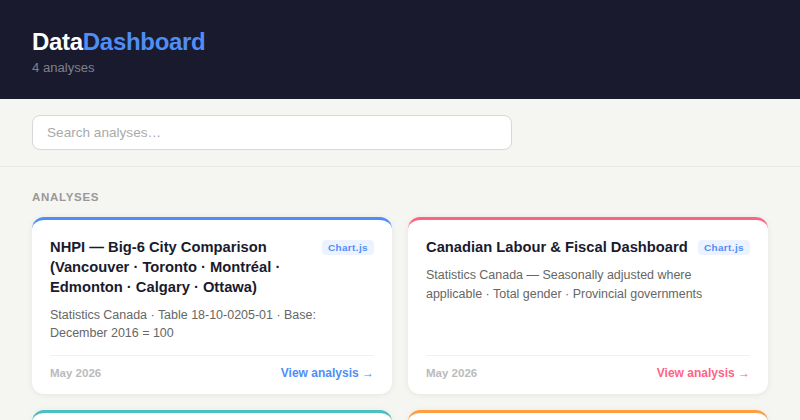
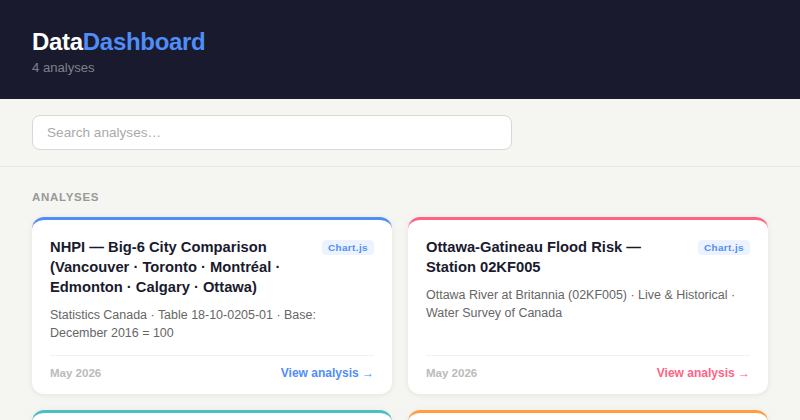
chore: update index, feed, previews, og tags [skip ci]

Changed region(s): [[0.5312, 0.5571, 0.9062, 0.7738]]

diff --git a/index.html b/index.html
@@ -238,23 +238,23 @@
           <span class="card-link">View analysis →</span>
         </div>
       </a>
-      <a class="card" href="employment_rate_canada.html" style="--accent:#ff6384">
-        <div class="card-top">
-          <div class="card-title">Canadian Labour &amp; Fiscal Dashboard</div>
-          <div class="badges"><span class="badge">Chart.js</span></div>
-        </div>
-        <p class="card-desc">Statistics Canada — Seasonally adjusted where applicable · Total gender · Provincial governments</p>
-        <div class="card-footer">
-          <span class="card-date">May 2026</span>
-          <span class="card-link">View analysis →</span>
-        </div>
-      </a>
-      <a class="card" href="flood_risk_gatineau_ottawa.html" style="--accent:#4bc0c0">
+      <a class="card" href="flood_risk_gatineau_ottawa.html" style="--accent:#ff6384">
         <div class="card-top">
           <div class="card-title">Ottawa-Gatineau Flood Risk — Station 02KF005</div>
           <div class="badges"><span class="badge">Chart.js</span></div>
         </div>
         <p class="card-desc">Ottawa River at Britannia (02KF005) · Live &amp; Historical · Water Survey of Canada</p>
+        <div class="card-footer">
+          <span class="card-date">May 2026</span>
+          <span class="card-link">View analysis →</span>
+        </div>
+      </a>
+      <a class="card" href="employment_rate_canada.html" style="--accent:#4bc0c0">
+        <div class="card-top">
+          <div class="card-title">Canadian Labour &amp; Fiscal Dashboard</div>
+          <div class="badges"><span class="badge">Chart.js</span></div>
+        </div>
+        <p class="card-desc">Statistics Canada — Seasonally adjusted where applicable · Total gender · Provincial governments</p>
         <div class="card-footer">
           <span class="card-date">May 2026</span>
           <span class="card-link">View analysis →</span>
